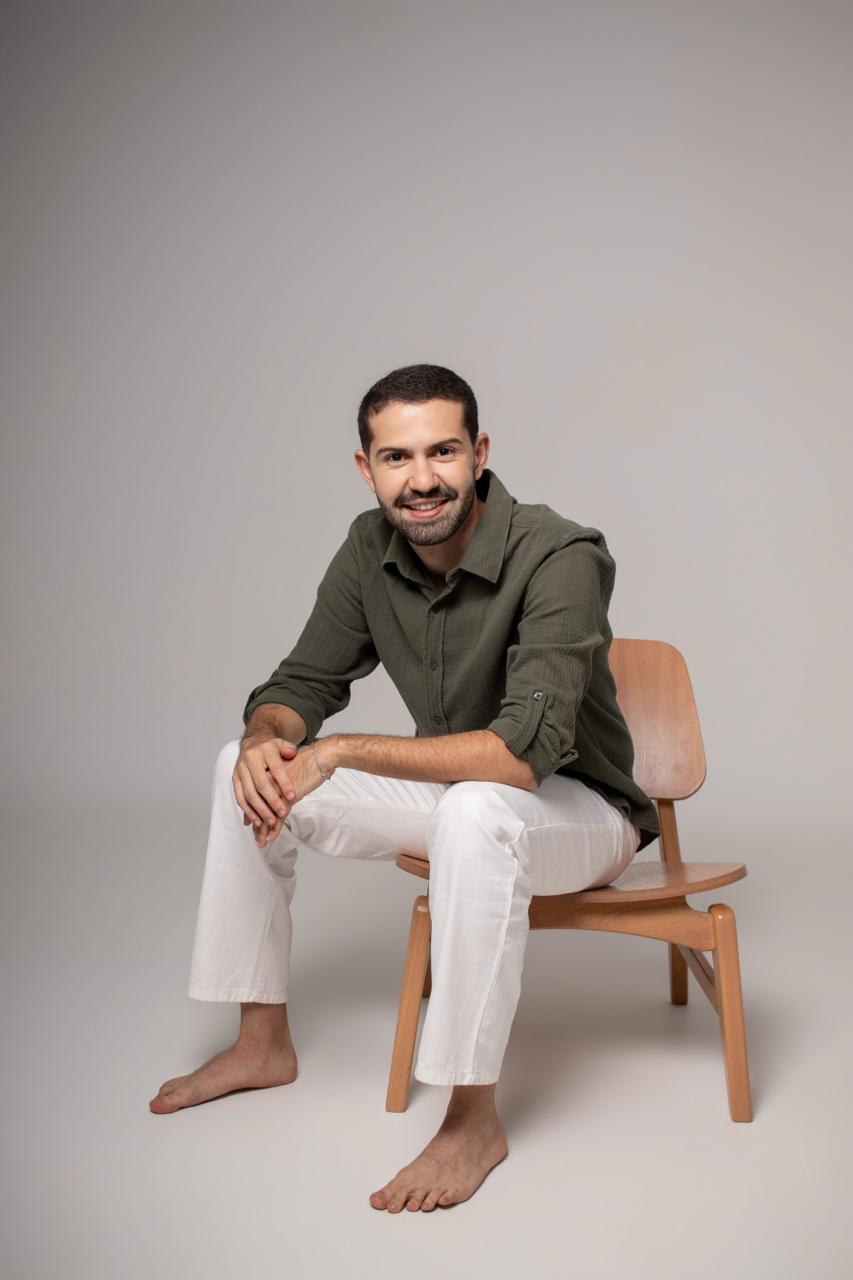
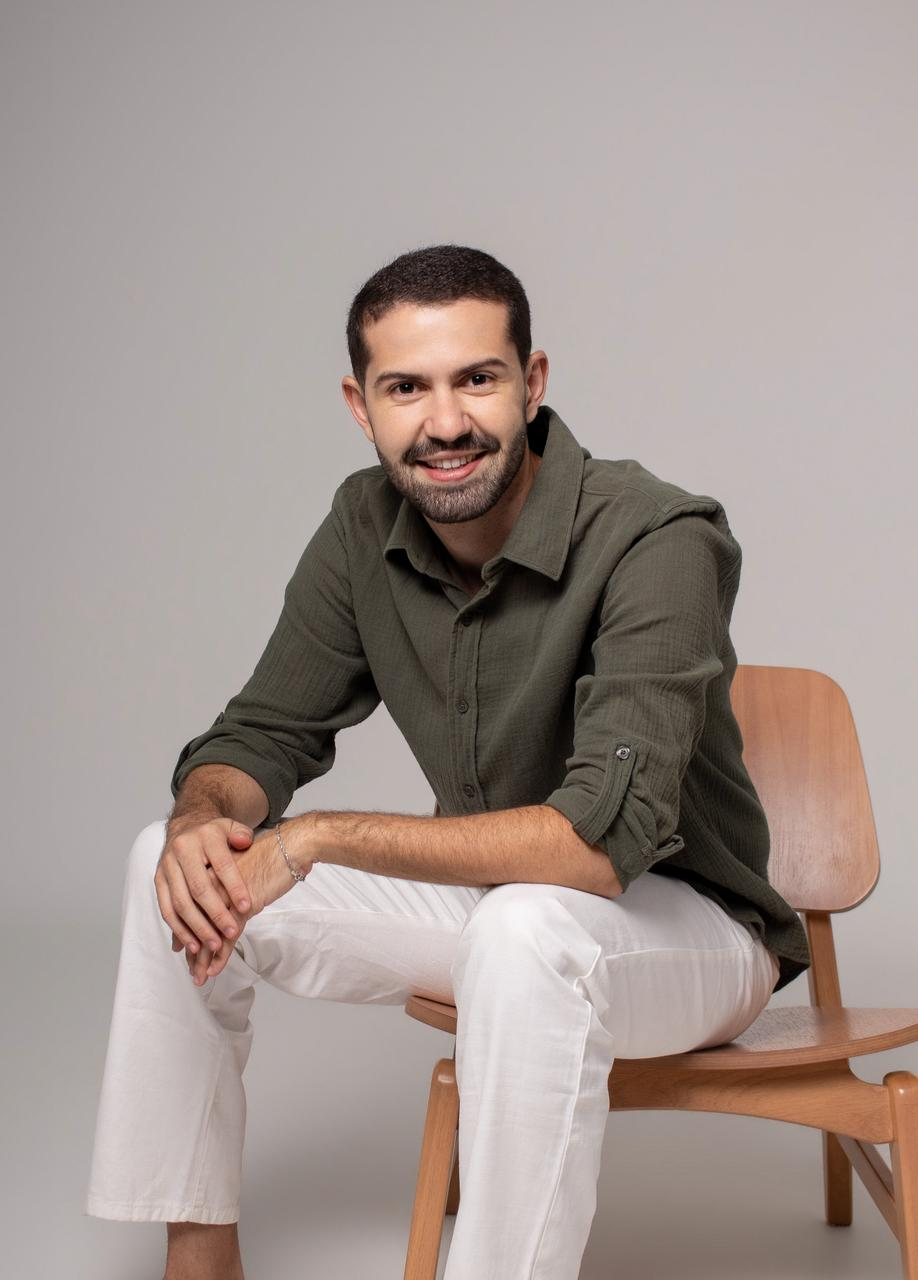
style[Services, Areas, About]: Mudanca de foto e text

diff --git a/src/components/Services.tsx b/src/components/Services.tsx
@@ -17,7 +17,7 @@ const services = [
     title: 'Projetos e palestras',
     description: (
       <>
-        Desenvolvimento de atividades voltadas à <strong>promoção da saúde mental em diferentes contextos institucionais</strong>, considerando seus <strong> objetivos e as necessidades.</strong>{' '}
+        Desenvolvimento de atividades voltadas à <strong>promoção da saúde mental em diferentes contextos institucionais</strong>, considerando seus <strong>objetivos e as necessidades.</strong>{' '}
         Palestras, rodas de conversa e encontros formativos para <strong>empresas</strong>, <strong>instituições</strong>, <strong>escolas</strong> e organizações.
       </>
     )
@@ -72,7 +72,7 @@ const ServiceCard = ({ service, index }: { service: Service; index: number }) =>
   return (
     <div
       ref={cardRef}
-      className={`bg-gray-50 shadow-xl dark:bg-black p-4 md:p-6 rounded-lg shadow-sm hover:shadow-md transition-all duration-700 ease-out ${
+      className={`bg-white shadow-xl dark:bg-black p-4 md:p-6 rounded-lg hover:shadow-md transition-all duration-700 ease-out ${
         isVisible
           ? 'opacity-100 translate-y-0'
           : 'opacity-0 translate-y-8'
@@ -90,8 +90,8 @@ export default function Services() {
   return (
     <section id="servicos" className="bg-white dark:bg-neutral-800 py-5">
       <div className="container mx-auto px-4 py-4">
-        <div className="text-center mb-16">
-          <h2 className="text-3xl font-bold text-musgo dark:text-white mb-4">MEUS SERVIÇOS</h2>
+        <div className="text-center mb-6">
+          <h2 className="text-3xl font-normal font-poppins text-musgo dark:text-white">MEUS SERVIÇOS</h2>
         </div>
         <div className="grid grid-cols-1 md:grid-cols-2 lg:grid-cols-2 gap-4 font-poppins font-normal">
           {services.map((service, index) => (

diff --git a/src/components/Areas.tsx b/src/components/Areas.tsx
@@ -58,7 +58,7 @@ const ServiceCard = ({ service, index }: { service: typeof services[0], index: n
   return (
     <div
       ref={cardRef}
-      className={`bg-white dark:bg-black p-4 md:p-6 rounded-lg shadow-sm hover:shadow-md transition-all duration-700 ease-out ${
+      className={`bg-gray-50 dark:bg-black p-4 md:p-6 rounded-lg shadow-sm hover:shadow-md transition-all duration-700 ease-out ${
         isVisible 
           ? 'opacity-100 translate-y-0' 
           : 'opacity-0 translate-y-8'
@@ -83,7 +83,7 @@ export default function Areas() {
           </p>
         </div>
         <div className="text-center">
-          <p className="text-3xl font-bold text-laranja dark:text-laranja ">ÁREAS DE ATUAÇÃO</p>
+          <p className="text-3xl font-normal text-laranja dark:text-laranja mb-5">ÁREAS DE ATUAÇÃO</p>
         </div>
         <div className="grid grid-cols-1 md:grid-cols-2 lg:grid-cols-3 gap-8 font-poppins font-normal">
           {services.map((service, index) => (
